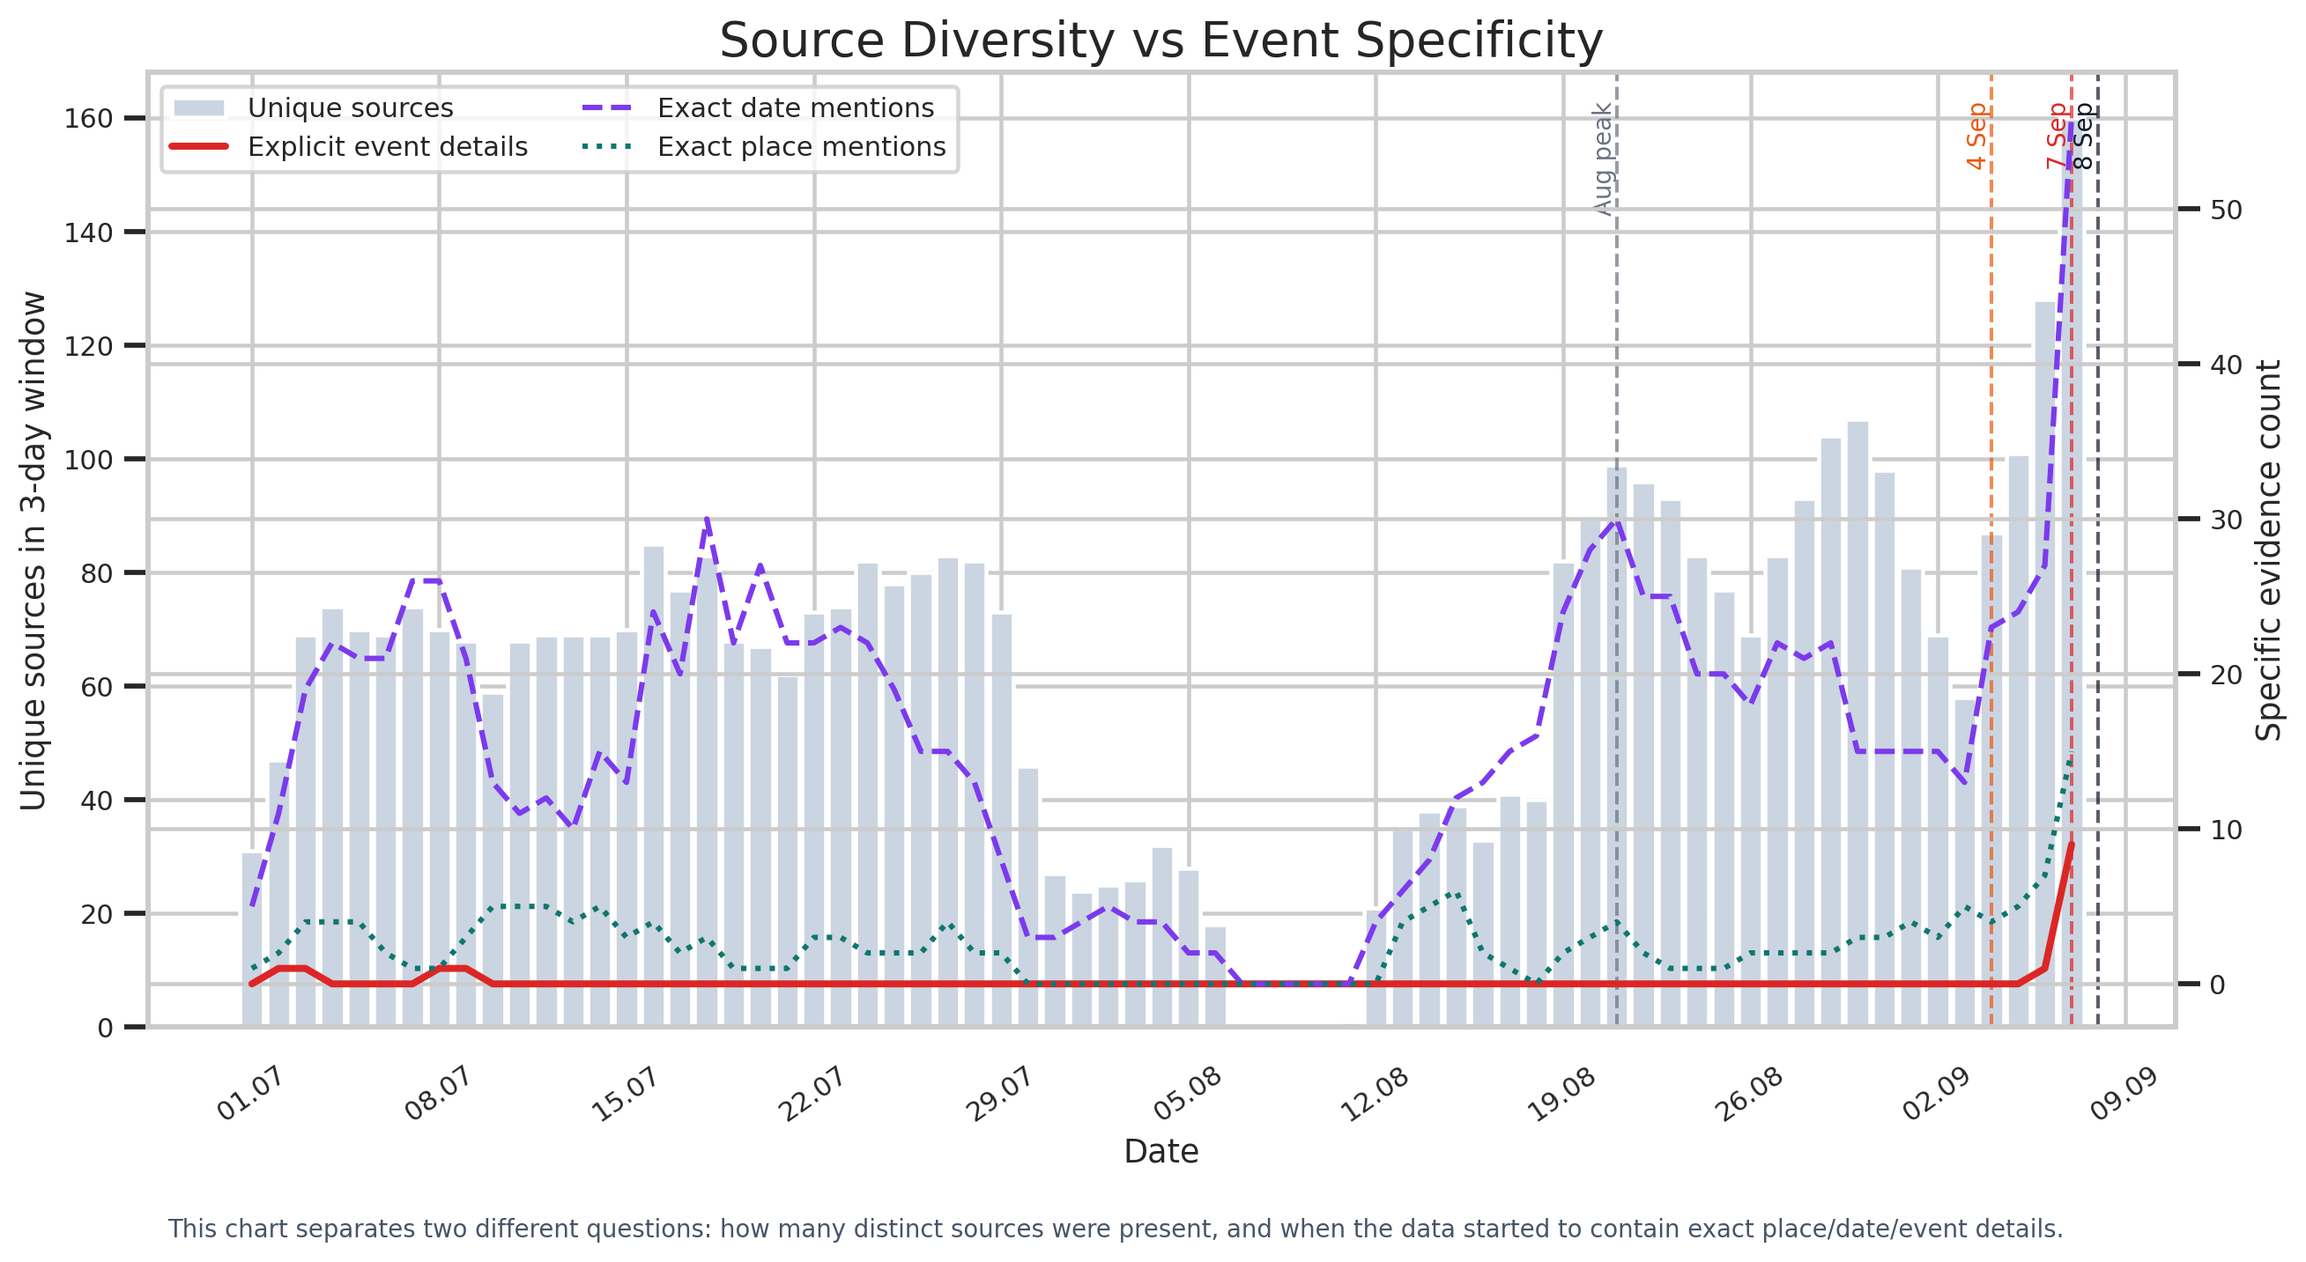
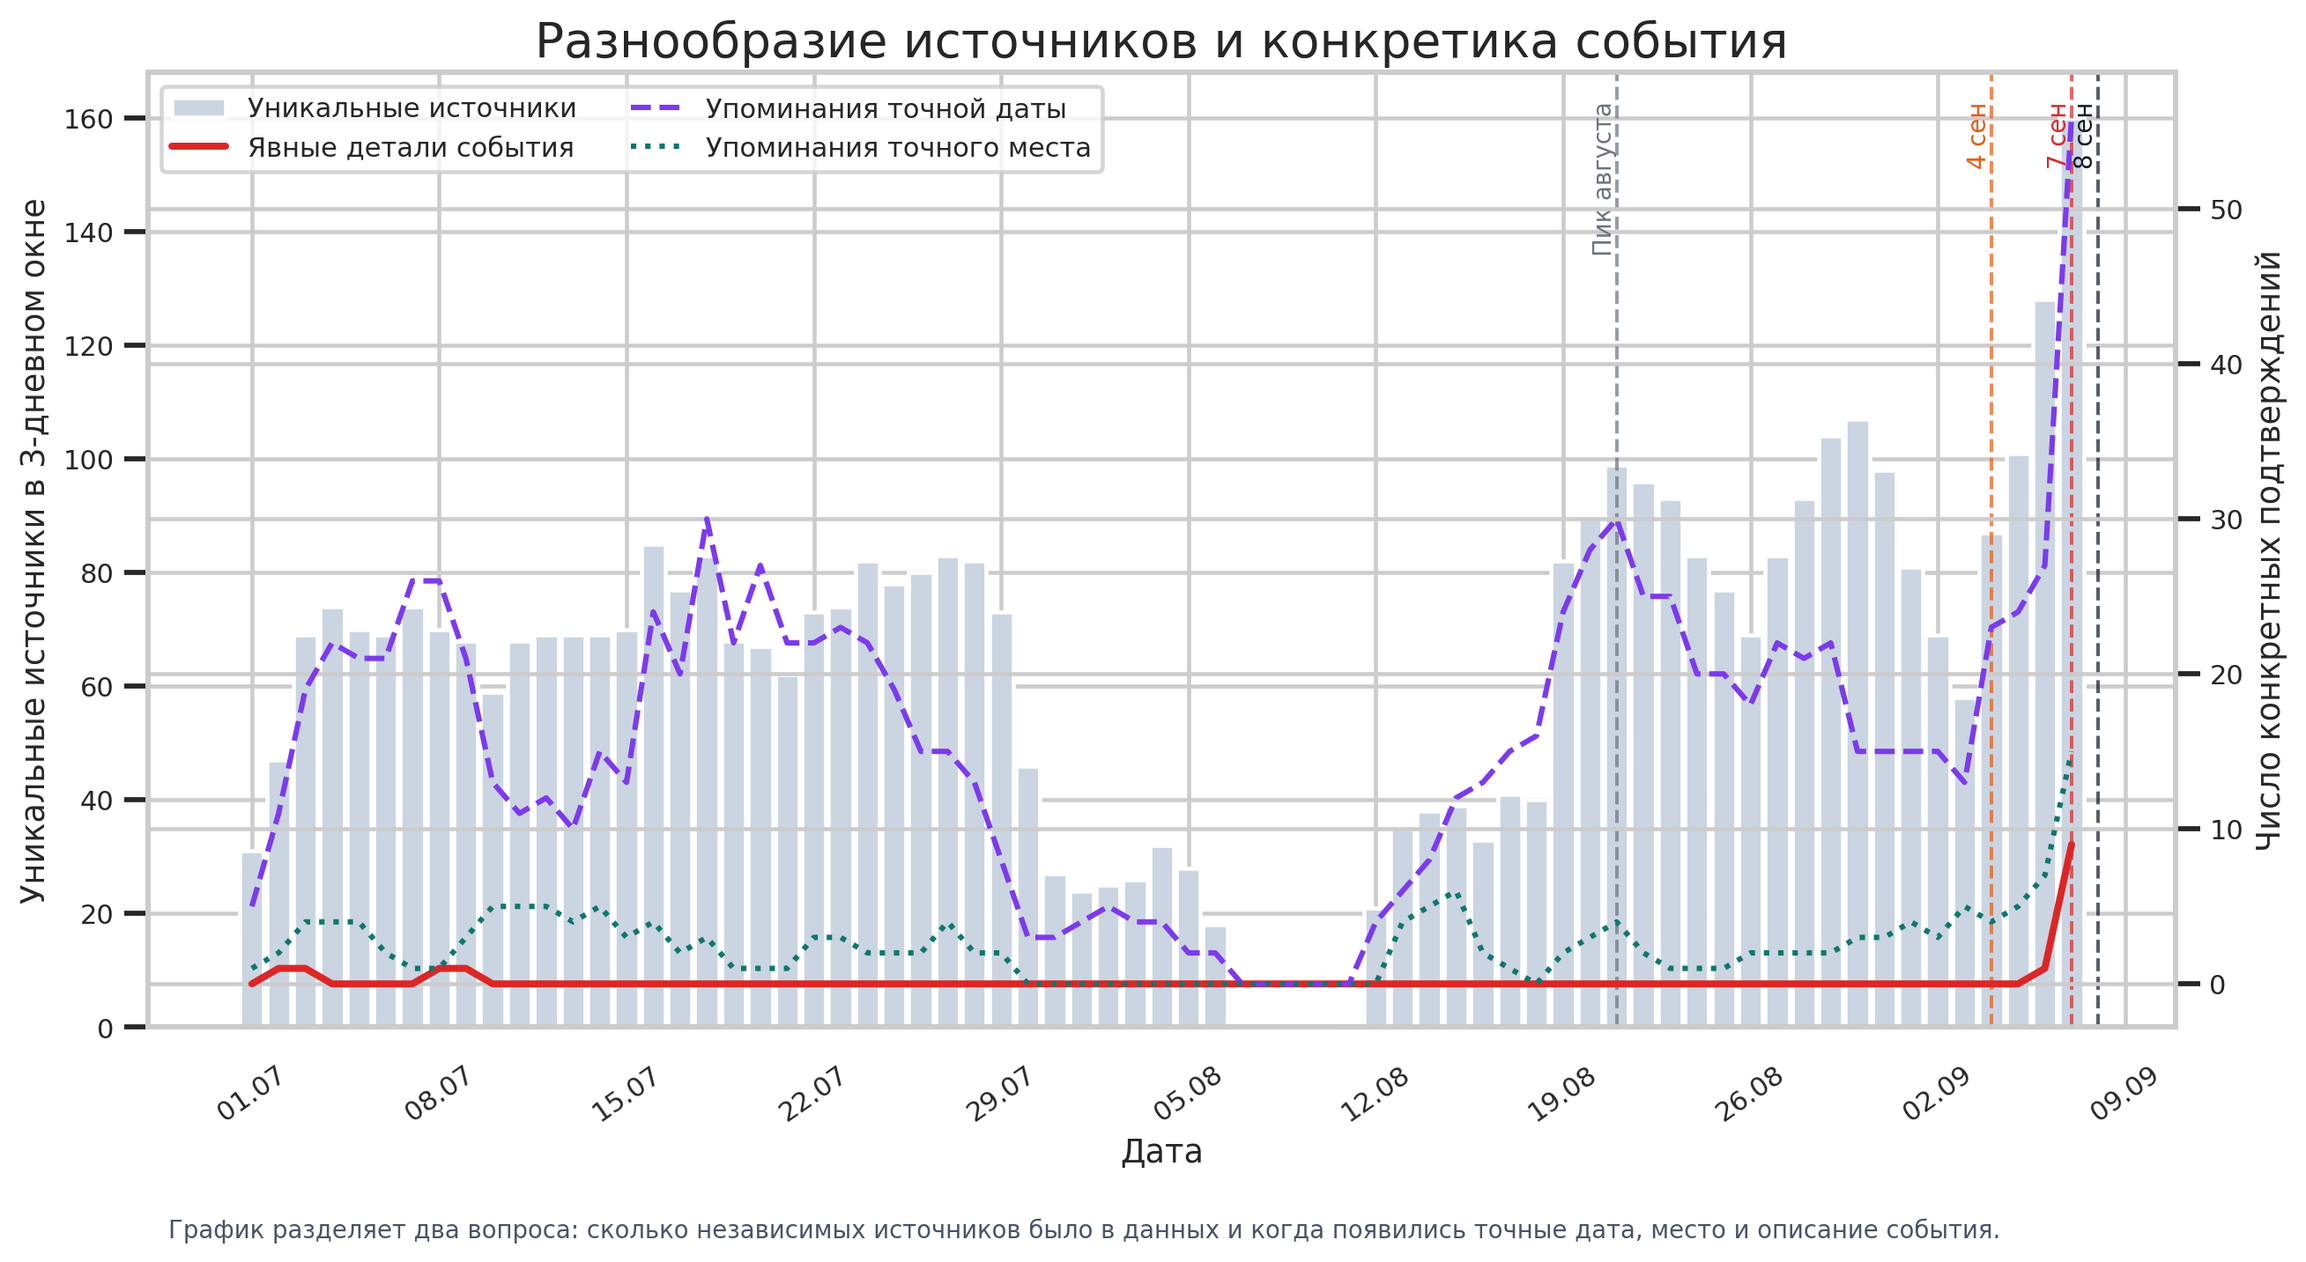
Localize coursework charts

diff --git a/scripts/build_coursework_valid_charts.py b/scripts/build_coursework_valid_charts.py
@@ -13,6 +13,8 @@ ROOT = Path(__file__).resolve().parents[1]
 OUTPUT_DIR = ROOT / "reports" / "forecast_mvp" / "course_valid_charts"
 CRITERIA_CSV = ROOT / "reports" / "forecast_mvp" / "model_diagnostics" / "criteria_growth_timeseries.csv"
 COMMENTS_CSV = ROOT / "reports" / "forecast_mvp" / "comment_activity" / "posts_with_comments_daily.csv"
+MERGED_POSTS_CSV = ROOT / "data" / "derived" / "platform_posts_aug05_12_final_merged.csv"
+MERGED_COMMENTS_CSV = ROOT / "data" / "derived" / "platform_comments_aug05_12_final_merged.csv"
 AUDIT_CSV = ROOT / "data" / "derived" / "external_pre_event_sources_audit.csv"
 EVIDENCE_CSV = ROOT / "reports" / "forecast_mvp" / "course_top_evidence.csv"
 
@@ -47,6 +49,30 @@ def load_criteria(path: Path) -> pd.DataFrame:
 
 
 def load_comments(path: Path) -> pd.DataFrame:
+    if MERGED_POSTS_CSV.exists() and MERGED_COMMENTS_CSV.exists():
+        posts = pd.read_csv(MERGED_POSTS_CSV, usecols=["post_id", "published_at"])
+        posts["day"] = pd.to_datetime(posts["published_at"], errors="coerce").dt.normalize()
+        comments = pd.read_csv(MERGED_COMMENTS_CSV, usecols=["post_id"])
+        commented_post_ids = set(comments["post_id"].dropna().astype(str))
+        posts["post_id"] = posts["post_id"].astype(str)
+        posts["has_comments"] = posts["post_id"].isin(commented_post_ids)
+        daily = (
+            posts.groupby("day", dropna=True)
+            .agg(
+                total_posts=("post_id", "count"),
+                posts_with_parsed_comments=("has_comments", "sum"),
+            )
+            .reset_index()
+            .sort_values("day")
+        )
+        daily["commented_post_share"] = (
+            daily["posts_with_parsed_comments"] / daily["total_posts"].where(daily["total_posts"] != 0, pd.NA)
+        ).fillna(0.0)
+        daily["parsed_comment_rows"] = 0
+        daily["unique_sources_with_comments"] = 0
+        daily.to_csv(path, index=False)
+        return daily
+
     df = pd.read_csv(path)
     df["day"] = pd.to_datetime(df["day"])
     return df
@@ -62,10 +88,10 @@ def load_evidence(path: Path) -> pd.DataFrame:
 
 def add_key_markers(ax: plt.Axes) -> None:
     markers = [
-        (pd.Timestamp("2025-08-21"), "Aug peak", "#6b7280"),
-        (pd.Timestamp("2025-09-04"), "4 Sep", "#ea580c"),
-        (pd.Timestamp("2025-09-07"), "7 Sep", "#dc2626"),
-        (pd.Timestamp("2025-09-08"), "8 Sep", "#111827"),
+        (pd.Timestamp("2025-08-21"), "Пик августа", "#6b7280"),
+        (pd.Timestamp("2025-09-04"), "4 сен", "#ea580c"),
+        (pd.Timestamp("2025-09-07"), "7 сен", "#dc2626"),
+        (pd.Timestamp("2025-09-08"), "8 сен", "#111827"),
     ]
     ylim = ax.get_ylim()
     for day, label, color in markers:
@@ -82,10 +108,10 @@ def format_dates(ax: plt.Axes) -> None:
 def build_signal_components(criteria: pd.DataFrame, output_dir: Path) -> None:
     fig, ax = plt.subplots(figsize=(13.5, 6.4))
     components = [
-        ("social_media_ban", "Social media ban", "#ef4444"),
-        ("grievance", "Grievance", "#f59e0b"),
-        ("mobilization", "Mobilization", "#2563eb"),
-        ("government", "Government", "#10b981"),
+        ("social_media_ban", "Блокировка соцсетей", "#ef4444"),
+        ("grievance", "Недовольство", "#f59e0b"),
+        ("mobilization", "Мобилизация", "#2563eb"),
+        ("government", "Власть", "#10b981"),
     ]
     ax.stackplot(
         criteria["day"],
@@ -94,16 +120,16 @@ def build_signal_components(criteria: pd.DataFrame, output_dir: Path) -> None:
         colors=[color for _column, _label, color in components],
         alpha=0.85,
     )
-    ax.set_title("Signal Components in Pre-Event Data")
-    ax.set_ylabel("3-day signal count")
-    ax.set_xlabel("Date")
+    ax.set_title("Компоненты сигнала в предсобытийных данных")
+    ax.set_ylabel("Число сигналов за 3 дня")
+    ax.set_xlabel("Дата")
     add_key_markers(ax)
     format_dates(ax)
     ax.legend(loc="upper left", ncol=2, frameon=True)
     ax.text(
         0.01,
         -0.22,
-        "Built from reports/forecast_mvp/model_diagnostics/criteria_growth_timeseries.csv, which is derived from data/platform_posts.csv, data/platform_comments.csv and data/derived/external_pre_event_posts.csv.",
+        "Построено по criteria_growth_timeseries.csv на основе data/platform_posts.csv, data/platform_comments.csv и data/derived/external_pre_event_posts.csv.",
         transform=ax.transAxes,
         fontsize=9,
         color="#475467",
@@ -113,24 +139,24 @@ def build_signal_components(criteria: pd.DataFrame, output_dir: Path) -> None:
 
 def build_sources_vs_specificity(criteria: pd.DataFrame, output_dir: Path) -> None:
     fig, ax = plt.subplots(figsize=(13.5, 6.4))
-    ax.bar(criteria["day"], criteria["unique_sources"], width=0.9, color="#cbd5e1", label="Unique sources")
-    ax.set_ylabel("Unique sources in 3-day window")
-    ax.set_xlabel("Date")
+    ax.bar(criteria["day"], criteria["unique_sources"], width=0.9, color="#cbd5e1", label="Уникальные источники")
+    ax.set_ylabel("Уникальные источники в 3-дневном окне")
+    ax.set_xlabel("Дата")
     ax2 = ax.twinx()
-    ax2.plot(criteria["day"], criteria["explicit_event_details"], color="#dc2626", linewidth=2.6, label="Explicit event details")
-    ax2.plot(criteria["day"], criteria["exact_date_mentions"], color="#7c3aed", linewidth=2.0, linestyle="--", label="Exact date mentions")
-    ax2.plot(criteria["day"], criteria["exact_place_mentions"], color="#0f766e", linewidth=2.0, linestyle=":", label="Exact place mentions")
-    ax2.set_ylabel("Specific evidence count")
+    ax2.plot(criteria["day"], criteria["explicit_event_details"], color="#dc2626", linewidth=2.6, label="Явные детали события")
+    ax2.plot(criteria["day"], criteria["exact_date_mentions"], color="#7c3aed", linewidth=2.0, linestyle="--", label="Упоминания точной даты")
+    ax2.plot(criteria["day"], criteria["exact_place_mentions"], color="#0f766e", linewidth=2.0, linestyle=":", label="Упоминания точного места")
+    ax2.set_ylabel("Число конкретных подтверждений")
     add_key_markers(ax)
     format_dates(ax)
     handles1, labels1 = ax.get_legend_handles_labels()
     handles2, labels2 = ax2.get_legend_handles_labels()
     ax.legend(handles1 + handles2, labels1 + labels2, loc="upper left", ncol=2, frameon=True)
-    ax.set_title("Source Diversity vs Event Specificity")
+    ax.set_title("Разнообразие источников и конкретика события")
     ax.text(
         0.01,
         -0.22,
-        "This chart separates two different questions: how many distinct sources were present, and when the data started to contain exact place/date/event details.",
+        "График разделяет два вопроса: сколько независимых источников было в данных и когда появились точные дата, место и описание события.",
         transform=ax.transAxes,
         fontsize=9,
         color="#475467",
@@ -140,35 +166,52 @@ def build_sources_vs_specificity(criteria: pd.DataFrame, output_dir: Path) -> No
 
 def build_comment_coverage(comments: pd.DataFrame, output_dir: Path) -> None:
     fig, ax = plt.subplots(figsize=(13.5, 6.4))
+    ax.bar(
+        comments["day"],
+        comments["total_posts"],
+        width=0.9,
+        color="#e5e7eb",
+        label="Всего постов",
+    )
     ax.fill_between(
         comments["day"],
         comments["posts_with_parsed_comments"],
         color="#dbeafe",
         alpha=0.8,
-        label="Posts with parsed comments",
+        label="Посты с комментариями",
     )
     ax.plot(comments["day"], comments["posts_with_parsed_comments"], color="#2563eb", linewidth=2.4)
-    ax.set_ylabel("Posts with parsed comments")
-    ax.set_xlabel("Date")
+    ax.set_ylabel("Число постов")
+    ax.set_xlabel("Дата")
     ax2 = ax.twinx()
     ax2.plot(
         comments["day"],
         comments["commented_post_share"] * 100.0,
         color="#dc2626",
         linewidth=2.5,
-        label="Commented-post share, %",
+        label="Доля постов с комментариями, %",
     )
-    ax2.set_ylabel("Commented-post share, %")
+    ax2.set_ylabel("Доля постов с комментариями, %")
     add_key_markers(ax)
     format_dates(ax)
-    ax.set_title("Comment Coverage in Collected Facebook Data")
+    ax.axvspan(pd.Timestamp("2025-08-05"), pd.Timestamp("2025-08-11"), color="#fef3c7", alpha=0.35)
+    ax.text(
+        pd.Timestamp("2025-08-08"),
+        comments["total_posts"].max() * 0.92,
+        "Посты есть,\nкомментарии не собраны",
+        ha="center",
+        va="top",
+        fontsize=10,
+        color="#92400e",
+    )
+    ax.set_title("Покрытие комментариев в собранных Facebook-данных")
     handles1, labels1 = ax.get_legend_handles_labels()
     handles2, labels2 = ax2.get_legend_handles_labels()
     ax.legend(handles1 + handles2, labels1 + labels2, loc="upper left", frameon=True)
     ax.text(
         0.01,
         -0.22,
-        "Built directly from reports/forecast_mvp/comment_activity/posts_with_comments_daily.csv, which is derived from the raw data/platform_posts.csv and data/platform_comments.csv files.",
+        "Если локально доступен объединённый shard за 5-12 августа, график пересчитывается по нему. Провал относится к комментариям, а не к общему числу постов.",
         transform=ax.transAxes,
         fontsize=9,
         color="#475467",
@@ -179,15 +222,16 @@ def build_comment_coverage(comments: pd.DataFrame, output_dir: Path) -> None:
 def build_external_audit(audit: pd.DataFrame, output_dir: Path) -> None:
     fig, (ax1, ax2) = plt.subplots(1, 2, figsize=(14.2, 6.1), gridspec_kw={"width_ratios": [1.0, 1.35]})
     status_counts = audit["status"].value_counts().rename_axis("status").reset_index(name="count")
+    status_counts["status_ru"] = status_counts["status"].map({"included": "включено", "excluded": "исключено"}).fillna(status_counts["status"])
     ax1.pie(
         status_counts["count"],
-        labels=status_counts["status"],
+        labels=status_counts["status_ru"],
         colors=["#2563eb", "#cbd5e1"],
         autopct="%1.1f%%",
         startangle=90,
         textprops={"fontsize": 11},
     )
-    ax1.set_title("External Source Audit")
+    ax1.set_title("Аудит внешних источников")
 
     included = audit.loc[audit["status"] == "included"].copy()
     domains = (
@@ -200,14 +244,14 @@ def build_external_audit(audit: pd.DataFrame, output_dir: Path) -> None:
         .reset_index(name="count")
     )
     ax2.barh(domains["domain"], domains["count"], color="#0f766e")
-    ax2.set_title("Top Included Pre-Event Domains")
-    ax2.set_xlabel("Included rows")
+    ax2.set_title("Главные домены, вошедшие в выборку")
+    ax2.set_xlabel("Число включённых строк")
     for index, value in enumerate(domains["count"]):
         ax2.text(value + 0.15, index, str(value), va="center", fontsize=10, color="#0f172a")
     fig.text(
         0.02,
         0.02,
-        "Built from data/derived/external_pre_event_sources_audit.csv. The chart shows the real included/excluded split after cutoff filtering and the domains that actually entered the pre-event dataset.",
+        "Построено по data/derived/external_pre_event_sources_audit.csv. Показано реальное соотношение включённых и исключённых строк после cutoff-фильтрации.",
         fontsize=9,
         color="#475467",
     )
@@ -215,24 +259,44 @@ def build_external_audit(audit: pd.DataFrame, output_dir: Path) -> None:
 
 
 def build_top_evidence(evidence: pd.DataFrame, output_dir: Path) -> None:
-    evidence = evidence.copy().sort_values("risk_contribution", ascending=True)
+    topic_map = {
+        "corruption": "коррупция",
+        "gen_z": "Gen Z",
+        "government": "власть",
+        "mobilization": "мобилизация",
+    }
+    evidence = evidence.copy().sort_values("risk_contribution", ascending=False)
+    evidence["published_at"] = pd.to_datetime(evidence["published_at"], errors="coerce")
+    evidence["matched_terms_short"] = evidence["matched_terms"].fillna("").apply(
+        lambda value: ", ".join(part.strip() for part in str(value).split(";")[:2] if part.strip())
+    )
     evidence["display_label"] = evidence.apply(
-        lambda row: f"{row['source_name']} [{str(row['post_id'])[:6]}]",
+        lambda row: (
+            f"{str(row['source_name']).replace('Facebook search: ', 'Поиск Facebook: ')}\n"
+            f"{row['published_at'].strftime('%d.%m.%Y') if pd.notna(row['published_at']) else ''}\n"
+            f"{row['matched_terms_short']}"
+        ),
         axis=1,
     )
-    fig, ax = plt.subplots(figsize=(13.2, 6.4))
+    evidence["topics_ru"] = evidence["topics"].fillna("").apply(
+        lambda value: ", ".join(topic_map.get(part.strip(), part.strip()) for part in str(value).split(",") if part.strip())
+    )
+    fig, ax = plt.subplots(figsize=(13.2, 7.4))
     bars = ax.barh(evidence["display_label"], evidence["risk_contribution"], color="#7c3aed")
-    ax.set_title("Top Evidence Posts for the 7 Sep Kathmandu Forecast")
-    ax.set_xlabel("Risk contribution")
-    ax.set_ylabel("Source")
-    for bar, post_id in zip(bars, evidence["post_id"]):
+    ax.set_title("Ключевые посты для прогноза по Катманду на 7 сентября")
+    ax.set_xlabel("Вклад в риск-скор")
+    ax.set_ylabel("Источник")
+    for bar, topics in zip(bars, evidence["topics_ru"]):
         width = bar.get_width()
-        ax.text(width + 0.5, bar.get_y() + bar.get_height() / 2, f"{width:.2f}", va="center", fontsize=10, color="#111827")
-        ax.text(0.4, bar.get_y() + bar.get_height() / 2, post_id[:8], va="center", fontsize=9, color="#fafafa")
+        ax.text(width - 0.35, bar.get_y() + bar.get_height() / 2, f"{width:.2f}", va="center", ha="right", fontsize=10, color="#ffffff")
+        if topics:
+            ax.text(0.6, bar.get_y() + bar.get_height() / 2, str(topics).replace(",", ", "), va="center", fontsize=8.5, color="#fafafa")
+    ax.invert_yaxis()
+    ax.margins(y=0.06)
     ax.text(
         0.01,
         -0.22,
-        "All five bars come from reports/forecast_mvp/course_top_evidence.csv and map back to real post_id rows in data/platform_posts.csv.",
+        "Все пять строк берутся из course_top_evidence.csv и сопоставляются с реальными post_id в data/platform_posts.csv.",
         transform=ax.transAxes,
         fontsize=9,
         color="#475467",
